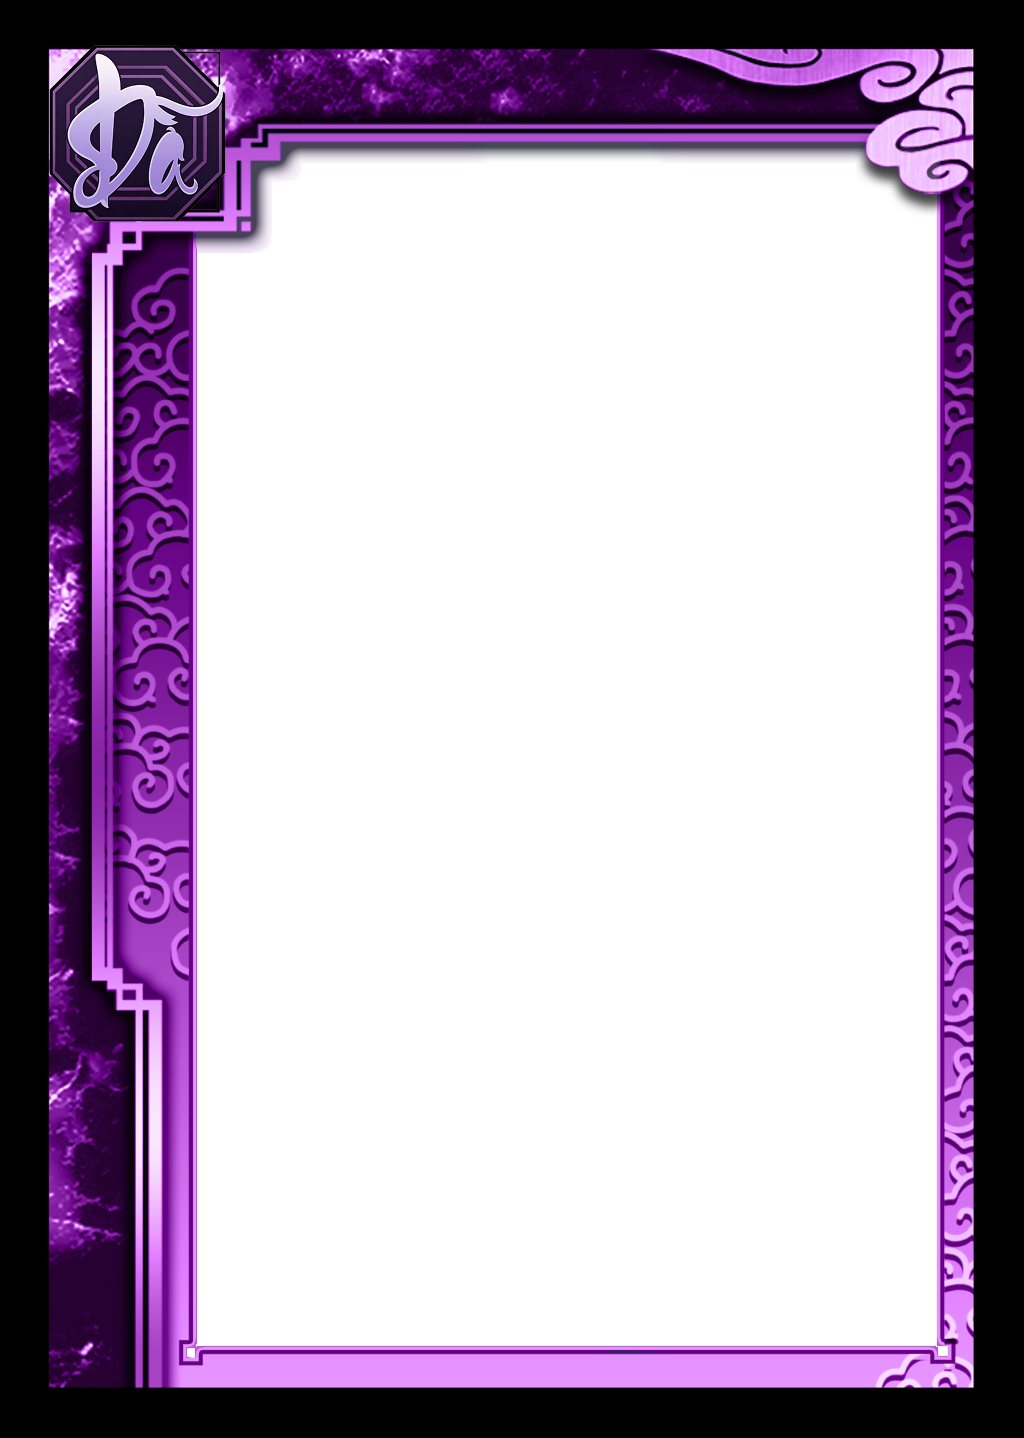
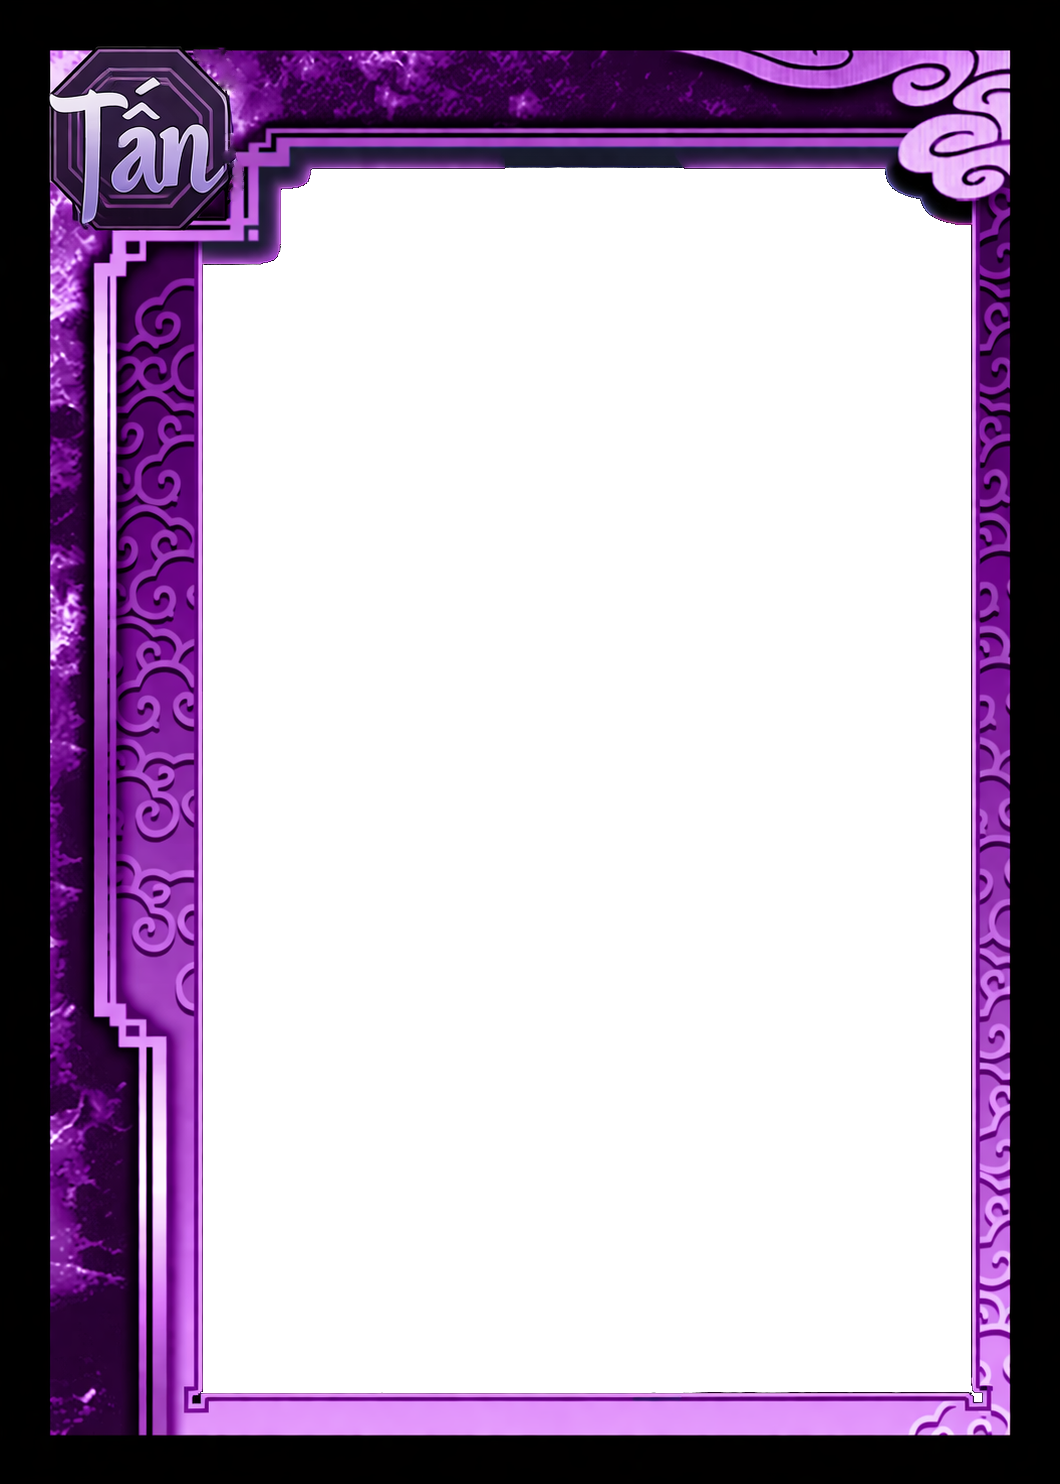
fix combobox, change Jin template,

Changed region(s): [[0.0312, 0.0306, 0.9688, 0.9791], [0.0312, 0.9179, 0.0938, 0.9791]]

diff --git a/src/components/maker/Maker.vue b/src/components/maker/Maker.vue
@@ -425,6 +425,7 @@ onMounted(() => {
             </div>
 
             <hr class="cardHr">
+            <!--
             <div class="row-flex-center">
                 <div class="row-flex-center x4">
                     <input type="checkbox" v-model="rcard.isProducer">
@@ -446,6 +447,7 @@ onMounted(() => {
                 </div>
                 <input class="textInput" :class="{ hidden: !rcard.isCardNum }" v-model="rcard.cardNum">
             </div>
+            -->
 
             <hr class="cardHr">
             <div class="row-flex-center">
@@ -489,9 +491,11 @@ onMounted(() => {
                 <span class="sizeLabel">px</span>
                 <input type="color" v-model="rcard.nameColor" title="Chọn màu tên võ tướng">
             </div>
+            <!--
             <div class="row-flex-center">
                 <div v-show="missing.length > 0" class="tip">Phát hiện thiếu chữ ({{ missing }}), khuyên dùng tính năng ghép chữ</div>
             </div>
+            -->
             <div class="row-flex-center">
                 <div class="x4">Hợp Kỹ</div>
                 <input class="textInput" v-model="rcard.comboText" placeholder="Ví dụ: Khổng Minh | Gia Cát Lượng">
@@ -502,6 +506,7 @@ onMounted(() => {
                 </select>
                 <input class="sizeInput" type="number" v-model="rcard.comboFontSize" min="8" max="40">
                 <span class="sizeLabel">px</span>
+                <input type="color" v-model="rcard.comboColor" title="Chọn màu chữ ComboBox">
             </div>
 
             <hr class="cardHr">

diff --git a/src/components/draw/draw.ts b/src/components/draw/draw.ts
@@ -308,14 +308,14 @@ export function drawComboBox(cf: Config, cvt: CanvasTool, card: Card, miscellane
     const boxWidth = textWidth + padding * 4
     const boxHeight = fontSize + padding * 2
     // Canh phải: cách mép phải 15px
-    const rightMargin = 15
+    const rightMargin = 35
     const boxX = cvt.logicSize.x - boxWidth - rightMargin
     const boxY = skillTopy - boxHeight - 4
 
     // Vẽ nền hộp
     const effectivePower = miscellaneous.getEffectivePower(card)
     const color = miscellaneous.getColor(effectivePower)
-    cvt.ctx.fillStyle = color + 'B3'
+    cvt.ctx.fillStyle = color
     cvt.ctx.beginPath()
     const r = cf.comboBox.cornerRadius
     cvt.ctx.moveTo(boxX + r, boxY)
@@ -331,13 +331,14 @@ export function drawComboBox(cf: Config, cvt: CanvasTool, card: Card, miscellane
     cvt.ctx.fill()
 
     // Vẽ viền
-    cvt.ctx.strokeStyle = 'rgba(255, 220, 150, 0.6)'
+    cvt.ctx.strokeStyle = miscellaneous.getColor(effectivePower)
     cvt.ctx.lineWidth = 1.5
     cvt.ctx.stroke()
 
     // Vẽ text (canh giữa trong hộp)
     cvt.ctx.font = fontSize + 'px ' + card.comboFont
     applyText(cvt.ctx, cf.comboBox.textStyle)
+    cvt.ctx.fillStyle = card.comboColor || cvt.ctx.fillStyle
     cvt.ctx.fillText(text, boxX + boxWidth / 2, boxY + boxHeight / 2)
 }
 

diff --git a/src/components/maker/projectSerializer.ts b/src/components/maker/projectSerializer.ts
@@ -52,6 +52,7 @@ export interface SerializedProject {
         skillTextFontSize: number
         comboFont: string
         comboFontSize: number
+        comboColor: string
         
         // Power and traits
         power: string
@@ -166,6 +167,7 @@ export async function serializeCard(card: Card): Promise<SerializedProject> {
             skillTextFontSize: card.skillTextFontSize,
             comboFont: card.comboFont,
             comboFontSize: card.comboFontSize,
+            comboColor: card.comboColor,
             
             power: card.power,
             isLord: card.isLord,
@@ -225,6 +227,7 @@ export async function deserializeCard(projectJson: SerializedProject, card: Card
     card.skillTextFontSize = data.skillTextFontSize
     card.comboFont = data.comboFont
     card.comboFontSize = data.comboFontSize
+    card.comboColor = data.comboColor ?? card.comboColor
     
     card.power = data.power
     card.isLord = data.isLord

diff --git a/src/components/maker/card.ts b/src/components/maker/card.ts
@@ -119,6 +119,7 @@ export class Card {
     skillTextFontSize: number = 10
     comboFont: string = 'NV_TenKyNang'
     comboFontSize: number = 14
+    comboColor: string = '#ffe7b4'
 
     power: string = Power['Thục']      // Thế lực
     isLord: boolean = false        // Có phải chúa công không
